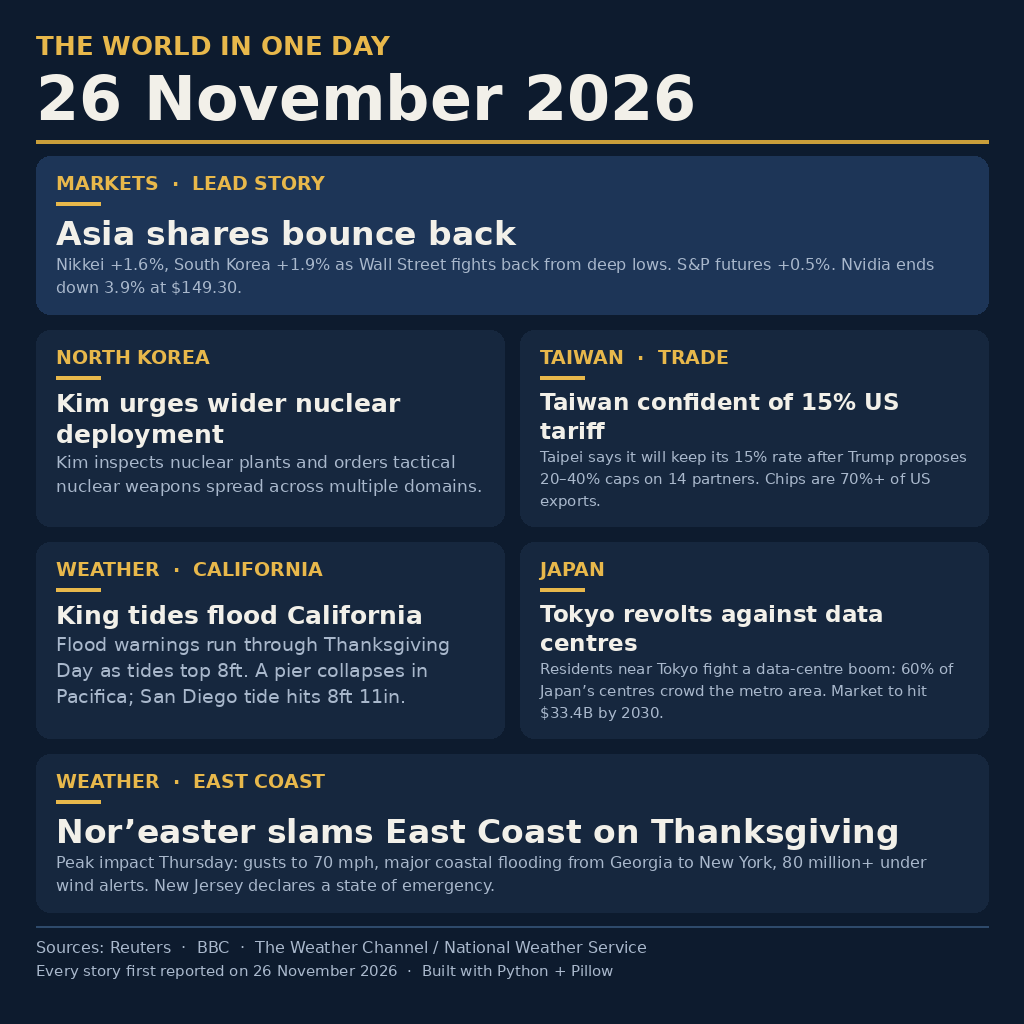
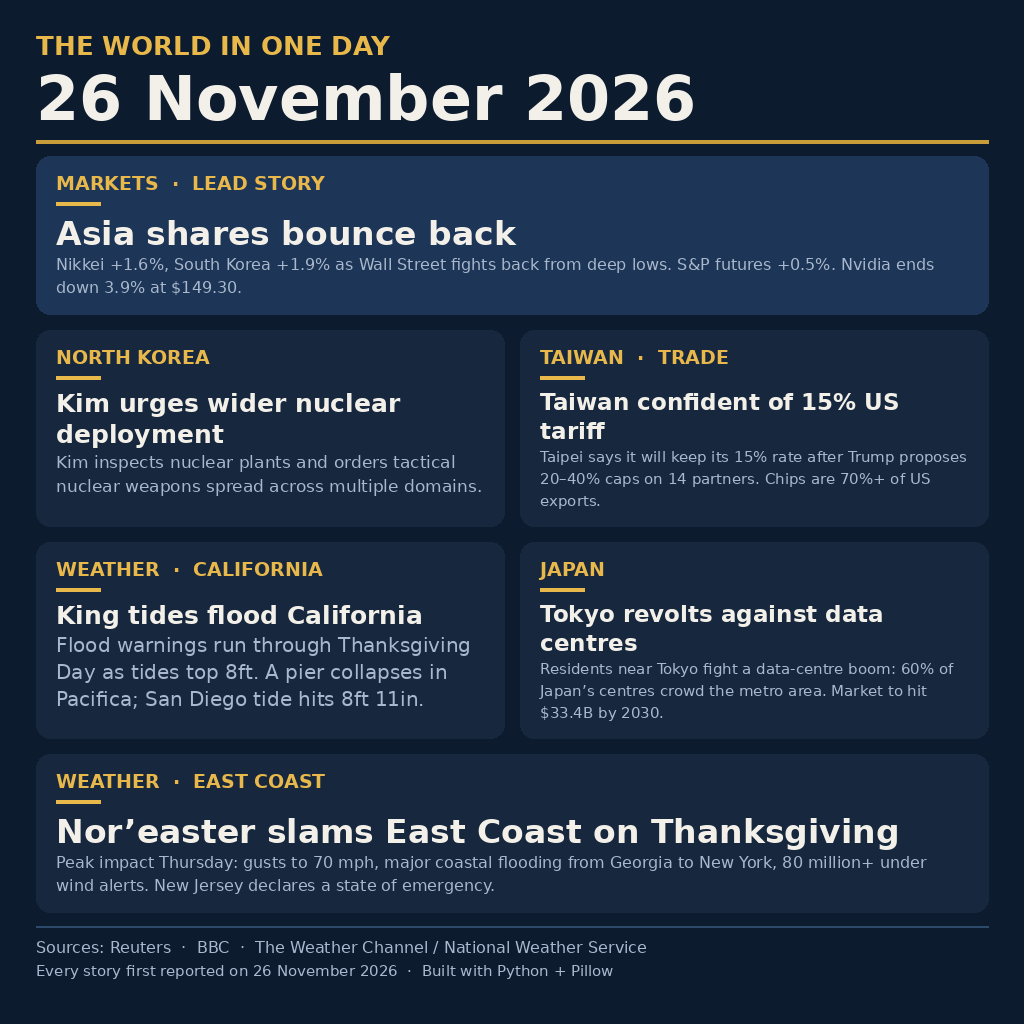
Improve grid legibility: grid body 19px -> 20px

Changed region(s): [[0.0625, 0.625, 0.4688, 0.6875]]

diff --git a/draw.py b/draw.py
@@ -159,7 +159,7 @@ def main():
         x = MARGIN + (i % 2) * (card_w + 16)
         y = grid_y + (i // 2) * (card_h + 16)
         draw_card(d, x, y, card_w, card_h, label, head, body,
-                  CARD, 25, 19)
+                  CARD, 25, 20)
 
     # ---- Bottom story: nor'easter ----
     draw_card(

diff --git a/README.md b/README.md
@@ -52,8 +52,8 @@ published that day.
 
 ## Verification
 
-- `entry.png`: 1024×1024, 125,500 bytes (limit 1 MiB),
[1 lines of base64/hex data omitted]
+- `entry.png`: 1024×1024, 126,378 bytes (limit 1 MiB),
[1 lines of base64/hex data omitted]
 - Rendered twice locally: identical sha256 both runs.
 - The image was viewed and checked for overlap, truncation and legibility
   before committing.
